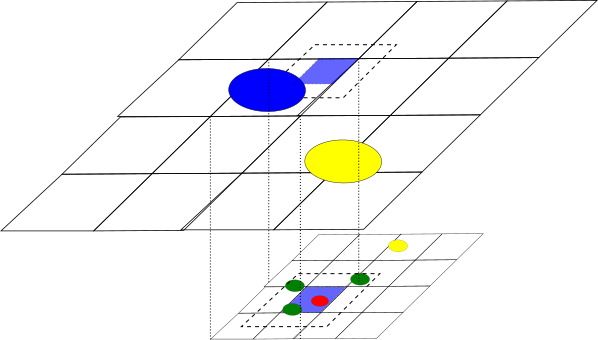
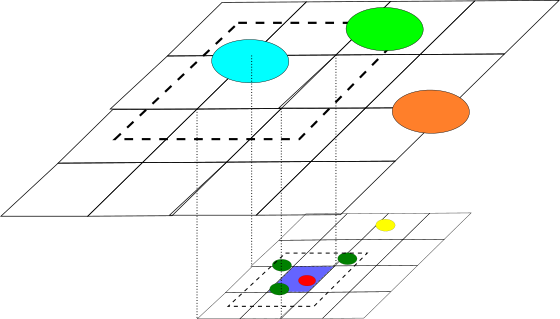
Updated docu

diff --git a/python/peano4/toolbox/particles/ParticleParticleInteraction_StackOfLists.py b/python/peano4/toolbox/particles/ParticleParticleInteraction_StackOfLists.py
@@ -16,7 +16,7 @@ Tree walker to realise particle-particle interactions with particles held by dif
 
 This code snippet creates a tree walker, i.e. an action set that runs
 through the underlying spacetree top down and builds up 
-@ref page_toolbox_particles_mesh_storage "the active set and the local set".
+@ref page_toolbox_particles_mesh_traversal "the active set and the local set".
 These sets can then be used to trigger mesh events. 
 
 
@@ -347,7 +347,6 @@ which was one of the first routines that we optimised along these ideas.
     __Template_TouchCellFirstTime = jinja2.Template(
         """
   std::list< globaldata::{{LOCAL_PARTICLE}}* >  localParticles;
-  std::list< globaldata::{{LOCAL_PARTICLE}}* >  particlesAssociatedWithLocalVertices;
   std::vector< int >                            numberOfParticlesPerLocalVertex( TwoPowerD );
   
   _numberOfActiveParticlesAdded.push_back(0);
@@ -364,11 +363,7 @@ which was one of the first routines that we optimised along these ideas.
     
     // Construct the two local particle sets
     for (auto* p: fineGridVertices{{LOCAL_PARTICLES_CONTAINER}}(i) ) {
-      bool append = marker.isContained( p->getX() );
-      if (append) {
-        localParticles.push_back( p );
-      }
-      particlesAssociatedWithLocalVertices.push_back( p );
+      localParticles.push_back( p );
     }
   }
   

diff --git a/python/peano4/toolbox/particles/ParticleParticleInteraction_Sets.py b/python/peano4/toolbox/particles/ParticleParticleInteraction_Sets.py
@@ -18,7 +18,8 @@ Tree walker to realise particle-particle interactions with particles held by dif
 This code has the same semantics as peano4.toolbox.particles.ParticleParticleInteraction_StackOfLists.
 However, it provides a different implementation. Please consult the 
 documentation of ParticleParticleInteraction_StackOfLists for a description
-of the arguments, plug-in points and the semantics of the two sets. 
+of the arguments, plug-in points and the semantics of the two sets, as well as
+@ref page_toolbox_particles_mesh_traversal "the generic set discussion".
 
 
 ## Realisation
@@ -111,10 +112,7 @@ from the active set.
       _activeParticles.insert( p );
     }
     for (auto* p: fineGridVertices{{LOCAL_PARTICLES_CONTAINER}}(i) ) {
-      bool append = marker.isContained( p->getX() );
-      if (append) {
-        localParticles.insert( p );
-      }
+      localParticles.insert( p );
     }
   }
 
